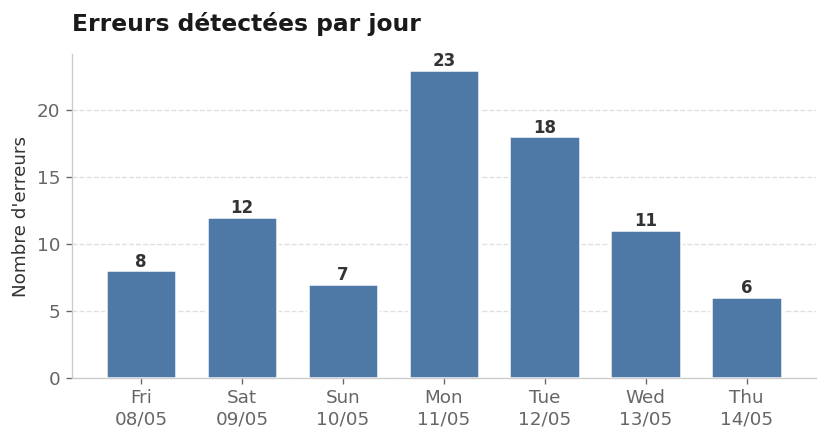
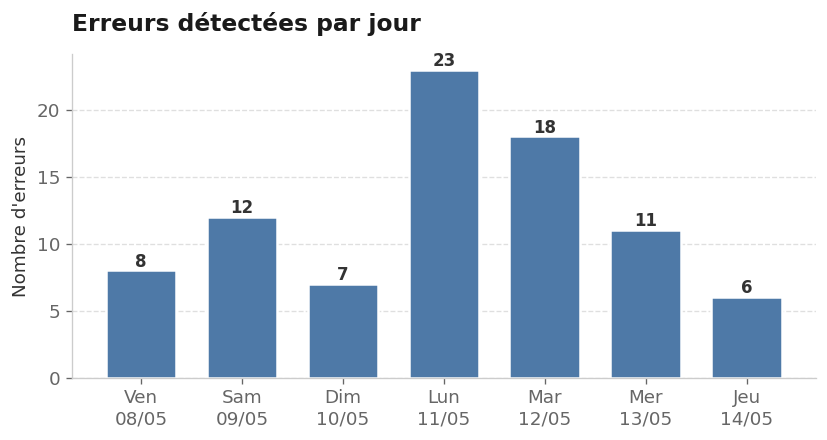
French chart labels + show all error types in donut sample
charts.py:
- Add _humanize_error_type() that maps technical error IDs to French
  human labels:
    not_found_404       → "Page introuvable (404)"
    server_error_5xx    → "Erreur serveur (5xx)"
    forbidden_403       → "Accès refusé (403)"
    long_redirect_chain → "Redirections en chaîne"
    timeout             → "Délai de réponse dépassé"
    connection_error    → "Erreur de connexion"
    navigation_error    → "Erreur de navigation"
    client_error_<N>    → "Erreur client (<N>)"  (dynamic, e.g. 410, 429)
- Day labels in trend chart now in French (Lun/Mar/Mer…) using a manual
  mapping instead of locale-dependent strftime("%a").
- Donut chart switches to a side legend with absolute counts instead
  of labels around the slices — avoids overlap when small slices (<5%)
  have long French labels.

docs/samples/_generate.py:
- Sample now includes all 8 error types the crawler can emit, with a
  realistic distribution (404 dominant, 5xx less but critical, plus
  dynamic client_error_410 and _429 examples).

https://claude.ai/code/session_01HdnxjEXFXmSanhVqq1Hrq4

diff --git a/charts.py b/charts.py
@@ -51,6 +51,37 @@ _BASE_STYLE = {
     "font.size": 11,
 }
 
+# Jours de la semaine en français (d.weekday() : 0 = lundi … 6 = dimanche)
+_DAY_NAMES_FR = ["Lun", "Mar", "Mer", "Jeu", "Ven", "Sam", "Dim"]
+
+# Libellés humains pour chaque type d'erreur stocké en base.
+# Les types `client_error_<code>` sont dynamiques (code HTTP exact), on les
+# gère séparément dans _humanize_error_type().
+_ERROR_LABELS_FR: dict[str, str] = {
+    "not_found_404":         "Page introuvable (404)",
+    "server_error_5xx":      "Erreur serveur (5xx)",
+    "forbidden_403":         "Accès refusé (403)",
+    "long_redirect_chain":   "Redirections en chaîne",
+    "timeout":               "Délai de réponse dépassé",
+    "connection_error":      "Erreur de connexion",
+    "navigation_error":      "Erreur de navigation",
+    "unexpected_error":      "Erreur imprévue",
+}
+
+
+def _humanize_error_type(error_type: str) -> str:
+    """Convertit un identifiant technique d'erreur en libellé français lisible.
+
+    Gère aussi les types dynamiques `client_error_<code>` (ex. 410, 429).
+    """
+    if error_type in _ERROR_LABELS_FR:
+        return _ERROR_LABELS_FR[error_type]
+    if error_type.startswith("client_error_"):
+        code = error_type.split("_")[-1]
+        return f"Erreur client ({code})"
+    # Fallback : on retourne tel quel pour ne jamais perdre d'info
+    return error_type
+
 
 def _fig_to_png(fig) -> bytes:
     """Sérialise une figure matplotlib en PNG (bytes) puis ferme la figure."""
@@ -67,7 +98,12 @@ def chart_errors_per_day(errors_per_day: dict[str, int], days: int = 7) -> bytes
     # On reconstruit la séquence complète (y compris jours à 0)
     today = datetime.now().date()
     dates = [today - timedelta(days=i) for i in range(days - 1, -1, -1)]
-    labels = [d.strftime("%a\n%d/%m") for d in dates]
+    # Libellés en français (Lun, Mar…) — on n'utilise pas la locale système
+    # car elle dépend de l'environnement (CI Ubuntu = en_US par défaut)
+    labels = [
+        f"{_DAY_NAMES_FR[d.weekday()]}\n{d.strftime('%d/%m')}"
+        for d in dates
+    ]
     values = [errors_per_day.get(d.isoformat(), 0) for d in dates]
 
     fig, ax = plt.subplots(figsize=(8, 3.5))
@@ -175,15 +211,17 @@ def chart_errors_by_type(errors: list[dict]) -> bytes | None:
     if not counts:
         return None
 
-    labels = [t for t, _ in counts]
+    # Étiquettes en français lisible plutôt que les IDs techniques
+    labels = [_humanize_error_type(t) for t, _ in counts]
     values = [n for _, n in counts]
     total = sum(values)
 
-    fig, ax = plt.subplots(figsize=(7, 4.5))
+    # Légende latérale au lieu de labels autour du donut : évite les
+    # chevauchements quand certaines parts sont très petites (< 5%).
+    fig, ax = plt.subplots(figsize=(9, 4.5))
     wedges, _texts, autotexts = ax.pie(
         values,
-        labels=labels,
-        autopct=lambda pct: f"{pct:.0f}%" if pct >= 5 else "",
+        autopct=lambda pct: f"{pct:.0f}%" if pct >= 4 else "",
         colors=DONUT_COLORS[: len(values)],
         wedgeprops={"width": 0.45, "edgecolor": "white", "linewidth": 2},
         textprops={"fontsize": 10, "color": "#333"},
@@ -193,6 +231,17 @@ def chart_errors_by_type(errors: list[dict]) -> bytes | None:
     for at in autotexts:
         at.set_color("white")
         at.set_fontweight("bold")
+
+    # Légende avec libellé + valeur absolue (ex: "Page introuvable (404) — 32")
+    legend_labels = [f"{lab}  —  {val}" for lab, val in zip(labels, values)]
+    ax.legend(
+        wedges,
+        legend_labels,
+        loc="center left",
+        bbox_to_anchor=(1.05, 0.5),
+        frameon=False,
+        fontsize=10,
+    )
 
     ax.set_title(
         f"Répartition par type ({total} erreurs au total)",

diff --git a/docs/samples/_generate.py b/docs/samples/_generate.py
@@ -54,12 +54,18 @@ def realistic_sample_data() -> tuple[list[dict], dict[str, int]]:
         "/":            1,
     }
 
+    # Tous les types d'erreur que le crawler peut produire, avec une
+    # distribution réaliste pour un site e-commerce français (les 404
+    # dominent généralement, les 5xx sont plus rares mais critiques).
     type_distribution = {
-        "not_found_404":         48,  # le gros morceau
-        "long_redirect_chain":   17,
-        "server_error_5xx":      10,
-        "timeout":                6,
-        "forbidden_403":          4,
+        "not_found_404":         32,  # URLs supprimées / mal recopiées
+        "long_redirect_chain":   18,  # héritage de migrations passées
+        "server_error_5xx":      12,  # plantages serveur ponctuels
+        "timeout":                9,  # pages lentes à répondre
+        "forbidden_403":          6,  # zones réservées atteintes par erreur
+        "client_error_410":       4,  # 410 Gone (URL retirée intentionnellement)
+        "client_error_429":       3,  # 429 Too Many Requests (rate-limit)
+        "navigation_error":       1,  # crash du navigateur Playwright (rare)
     }
 
     errors: list[dict] = []
